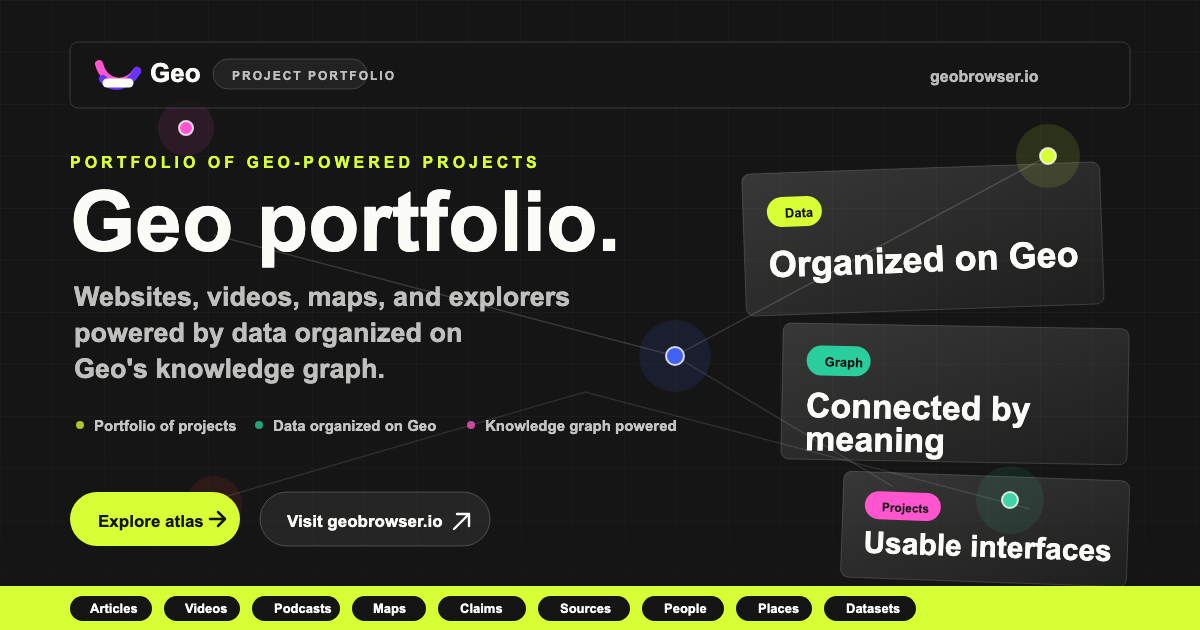
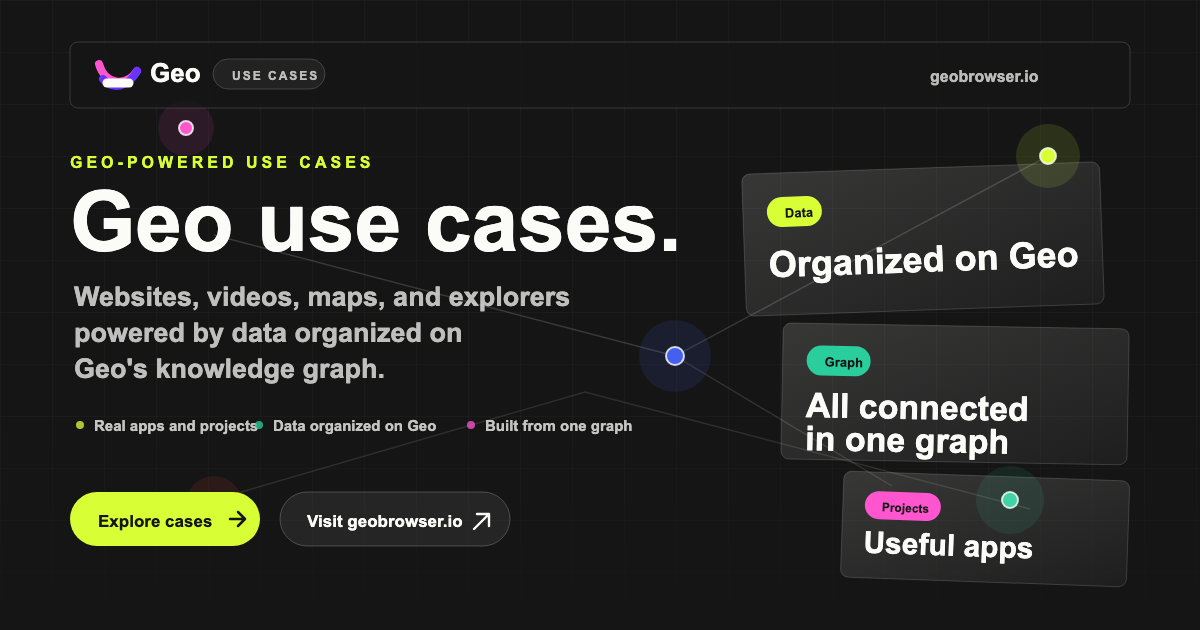
Refresh graphgeo use case copy

diff --git a/index.html b/index.html
@@ -3,15 +3,15 @@
   <head>
     <meta charset="utf-8" />
     <meta name="viewport" content="width=device-width, initial-scale=1" />
-    <title>Geo Knowledge Graph Portfolio</title>
+    <title>Geo Use Cases</title>
     <meta
       name="description"
-      content="A portfolio of projects, websites, maps, explorers, and data visualizations powered by data organized on Geo's knowledge graph."
+      content="Explore websites, videos, maps, explorers, and visualizations powered by data organized on Geo's knowledge graph."
     />
     <link rel="canonical" href="https://graphgeo.com/" />
     <meta property="og:type" content="website" />
-    <meta property="og:site_name" content="Geo Portfolio" />
-    <meta property="og:title" content="Geo Knowledge Graph Portfolio" />
+    <meta property="og:site_name" content="Geo Use Cases" />
+    <meta property="og:title" content="Geo Use Cases" />
     <meta
       property="og:description"
       content="Websites, videos, maps, explorers, and visualizations powered by data organized on Geo's knowledge graph."
@@ -25,22 +25,22 @@
     <meta property="og:image:type" content="image/png" />
     <meta property="og:image:width" content="1200" />
     <meta property="og:image:height" content="630" />
-    <meta property="og:image:alt" content="Geo portfolio: projects powered by data organized on Geo's knowledge graph." />
+    <meta property="og:image:alt" content="Geo use cases: apps and projects powered by data organized on Geo's knowledge graph." />
     <meta name="twitter:card" content="summary_large_image" />
-    <meta name="twitter:title" content="Geo Knowledge Graph Portfolio" />
+    <meta name="twitter:title" content="Geo Use Cases" />
     <meta
       name="twitter:description"
       content="Websites, videos, maps, explorers, and visualizations powered by data organized on Geo's knowledge graph."
     />
     <meta name="twitter:image" content="https://graphgeo.com/assets/og-image.png" />
-    <meta name="twitter:image:alt" content="Geo portfolio: projects powered by data organized on Geo's knowledge graph." />
+    <meta name="twitter:image:alt" content="Geo use cases: apps and projects powered by data organized on Geo's knowledge graph." />
     <meta name="theme-color" content="#151515" />
     <link rel="icon" href="https://framerusercontent.com/images/SNeXbYm9SskmmFZslmsWxgSREB0.png" />
     <link rel="stylesheet" href="./styles.css" />
   </head>
   <body>
     <header class="site-header" aria-label="Primary navigation">
-      <a class="brand" href="#top" aria-label="Geo portfolio home">
+      <a class="brand" href="#top" aria-label="Geo use cases home">
         <span class="geo-mark" aria-hidden="true">
           <svg viewBox="0 0 48 48" role="presentation">
             <circle class="geo-mark-ring" cx="24" cy="18" r="12.5" />
@@ -106,20 +106,20 @@
         </div>
 
         <div class="hero-copy-block">
-          <p class="kicker">Portfolio of Geo-powered projects</p>
-          <h1 id="hero-title">Geo portfolio.</h1>
+          <p class="kicker">Geo-powered use cases</p>
+          <h1 id="hero-title">Geo use cases.</h1>
           <p class="hero-copy">
-            Websites, videos, maps, explorers, and visualizations powered by data organized on
+            Explore websites, videos, maps, explorers, and visualizations powered by data organized on
             Geo's knowledge graph.
           </p>
-          <div class="hero-definition" aria-label="Portfolio definition">
-            <span>Portfolio of projects</span>
+          <div class="hero-definition" aria-label="Use case definition">
+            <span>Real apps and projects</span>
             <span>Data organized on Geo</span>
-            <span>Knowledge graph powered</span>
+            <span>Built from one graph</span>
           </div>
           <div class="hero-actions" aria-label="Featured actions">
             <a class="button primary" href="#use-cases">
-              <span>Explore the portfolio</span>
+              <span>Explore use cases</span>
               <svg viewBox="0 0 20 20" aria-hidden="true">
                 <path d="M5 10h9M10.5 5.5 15 10l-4.5 4.5" />
               </svg>
@@ -589,7 +589,7 @@
           <h3>Thanks — you’re on the list.</h3>
           <p>
             We’ve got your details and will reach out as Geo opens up. In the meantime,
-            you can keep exploring the portfolio or jump into geobrowser.io.
+            you can keep exploring the use cases or jump into geobrowser.io.
           </p>
           <div class="early-access-success-actions">
             <button class="button primary" type="button" data-close-early-access>

diff --git a/script.js b/script.js
@@ -56,6 +56,7 @@ const cases = [
     dataUrl: "https://www.geobrowser.io/space/f65885c9012be9a9201ddeb6e8c92b61",
     tone: "blue",
     chips: ["Claims", "Maps", "Sources", "Context"],
+    previewImage: "./assets/previews/understand-iran-war-preview.png?v=20260624",
   },
   {
     label: "TheyDebated",
@@ -92,17 +93,6 @@ const cases = [
       "https://www.geobrowser.io/space/b5a31f8182b042437ede0f84ee02f104?tabId=b9e3c99a3db144c4976555bf8f0a167a",
     tone: "green",
     chips: ["Studies", "Outcomes", "Evidence levels", "Safety notes"],
-  },
-  {
-    label: "Disease Data Explorer",
-    category: "Health",
-    tag: "Public health",
-    title: "Disease burden and cure status become structured public-health intelligence.",
-    summary:
-      "A disease explorer that makes cure status, disease categories, public-health facts, and research context easier to scan.",
-    url: "https://disease-data-explorer--deeneyyrn.replit.app/",
-    tone: "green",
-    chips: ["Diseases", "Cure status", "Categories", "Research context"],
   },
   {
     label: "Disease Graph Explorer",
@@ -476,13 +466,13 @@ function initEarlyAccessModal() {
 
     try {
       const payload = {
-        formType: "portfolio_early_access",
+        formType: "use_case_early_access",
         name,
         email,
         interest: [],
         interestOther: whatInterests,
         skills: wantsUpdates ? ["Receive product updates"] : [],
-        roles: ["Portfolio guest"],
+        roles: ["Use case guest"],
         roleOther: "",
         source: "graphgeo.com",
         notes: whatInterests,

diff --git a/assets/og-render.html b/assets/og-render.html
@@ -4,7 +4,7 @@
     <meta charset="utf-8" />
     <meta name="viewport" content="width=1200, initial-scale=1" />
     <meta name="robots" content="noindex" />
-    <title>Geo Portfolio OG Render</title>
+    <title>Geo Use Cases OG Render</title>
     <style>
       html,
       body {

diff --git a/README.md b/README.md
@@ -1,6 +1,6 @@
-# Geo Use Cases Portfolio
+# Geo Use Cases
 
-A dependency-free portfolio page for Geo-powered knowledge graph examples.
+A dependency-free use-cases page for Geo-powered knowledge graph examples.
 
 Published URL:
 